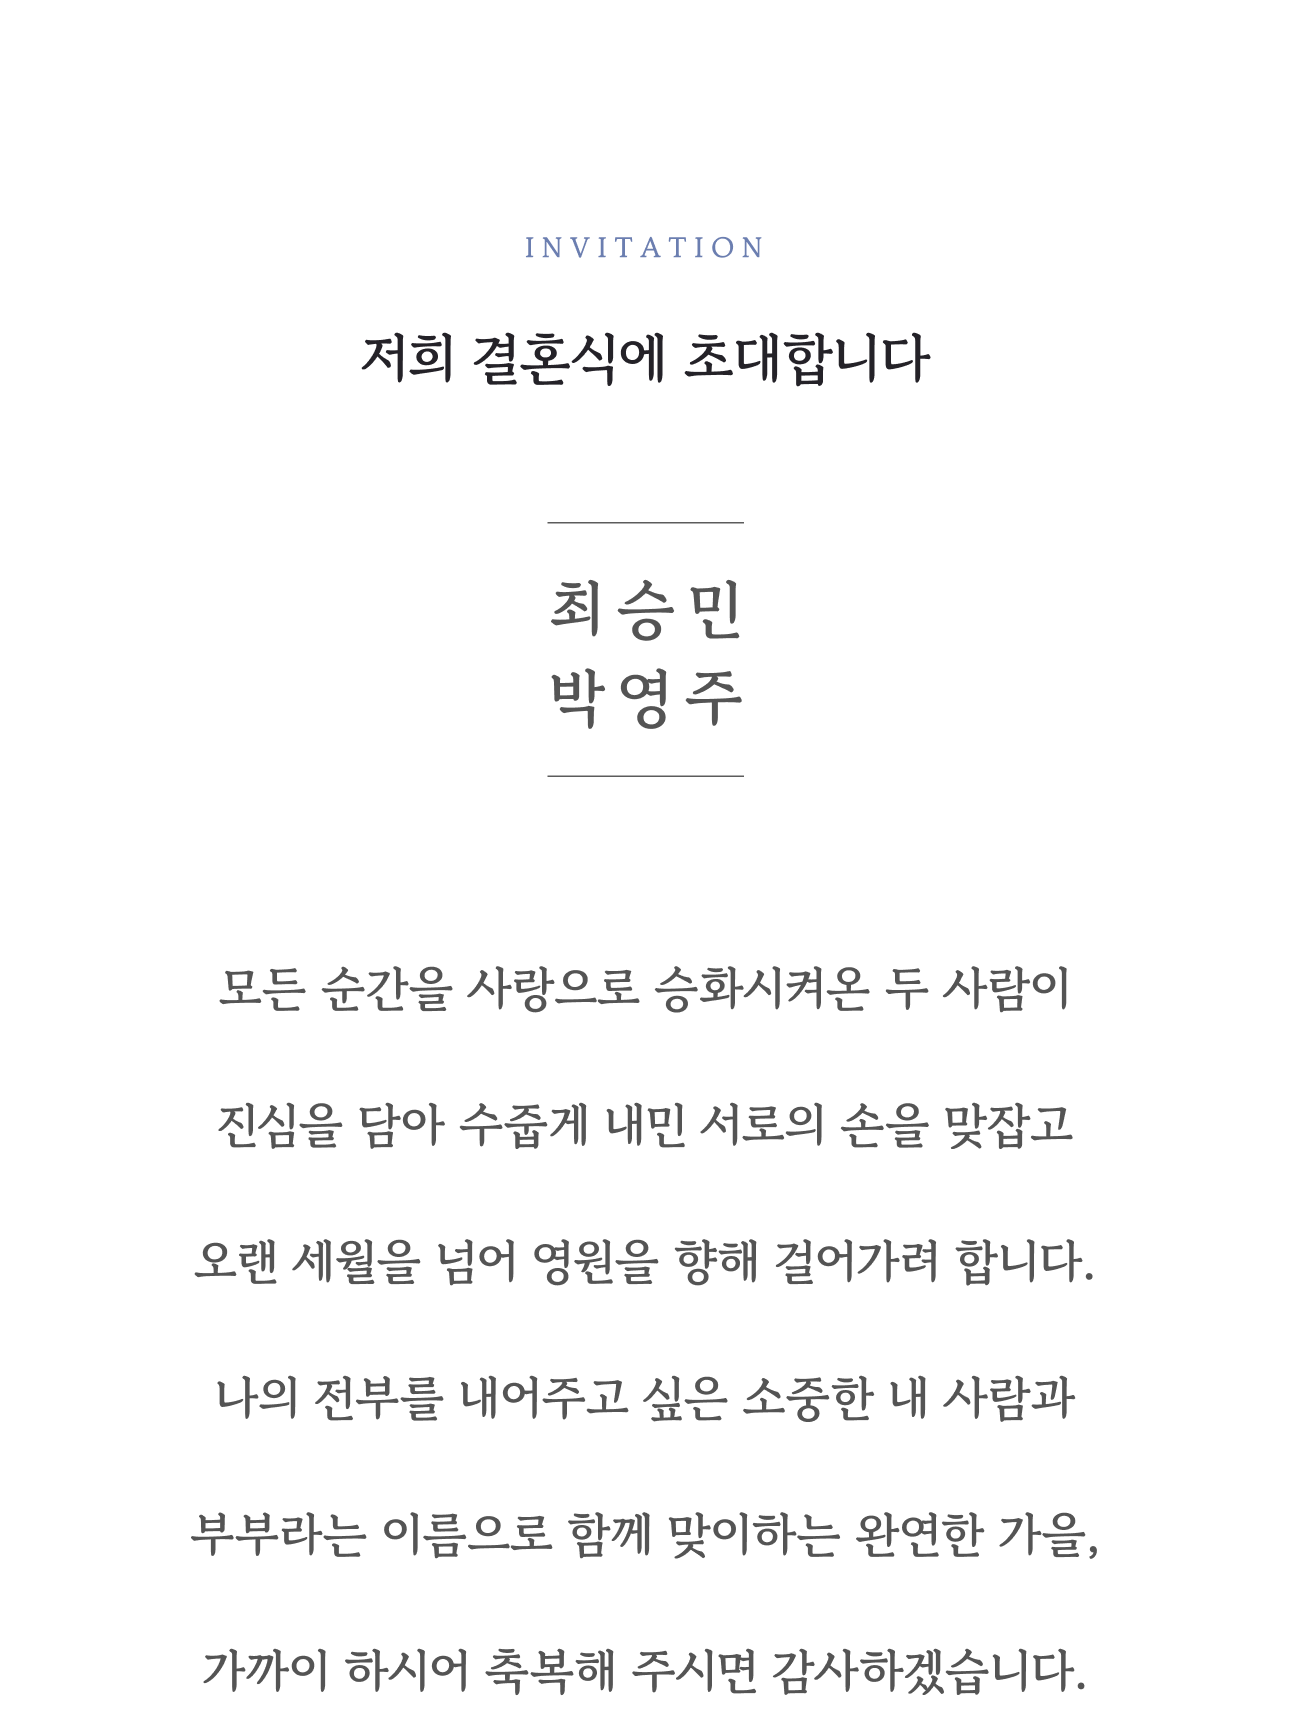
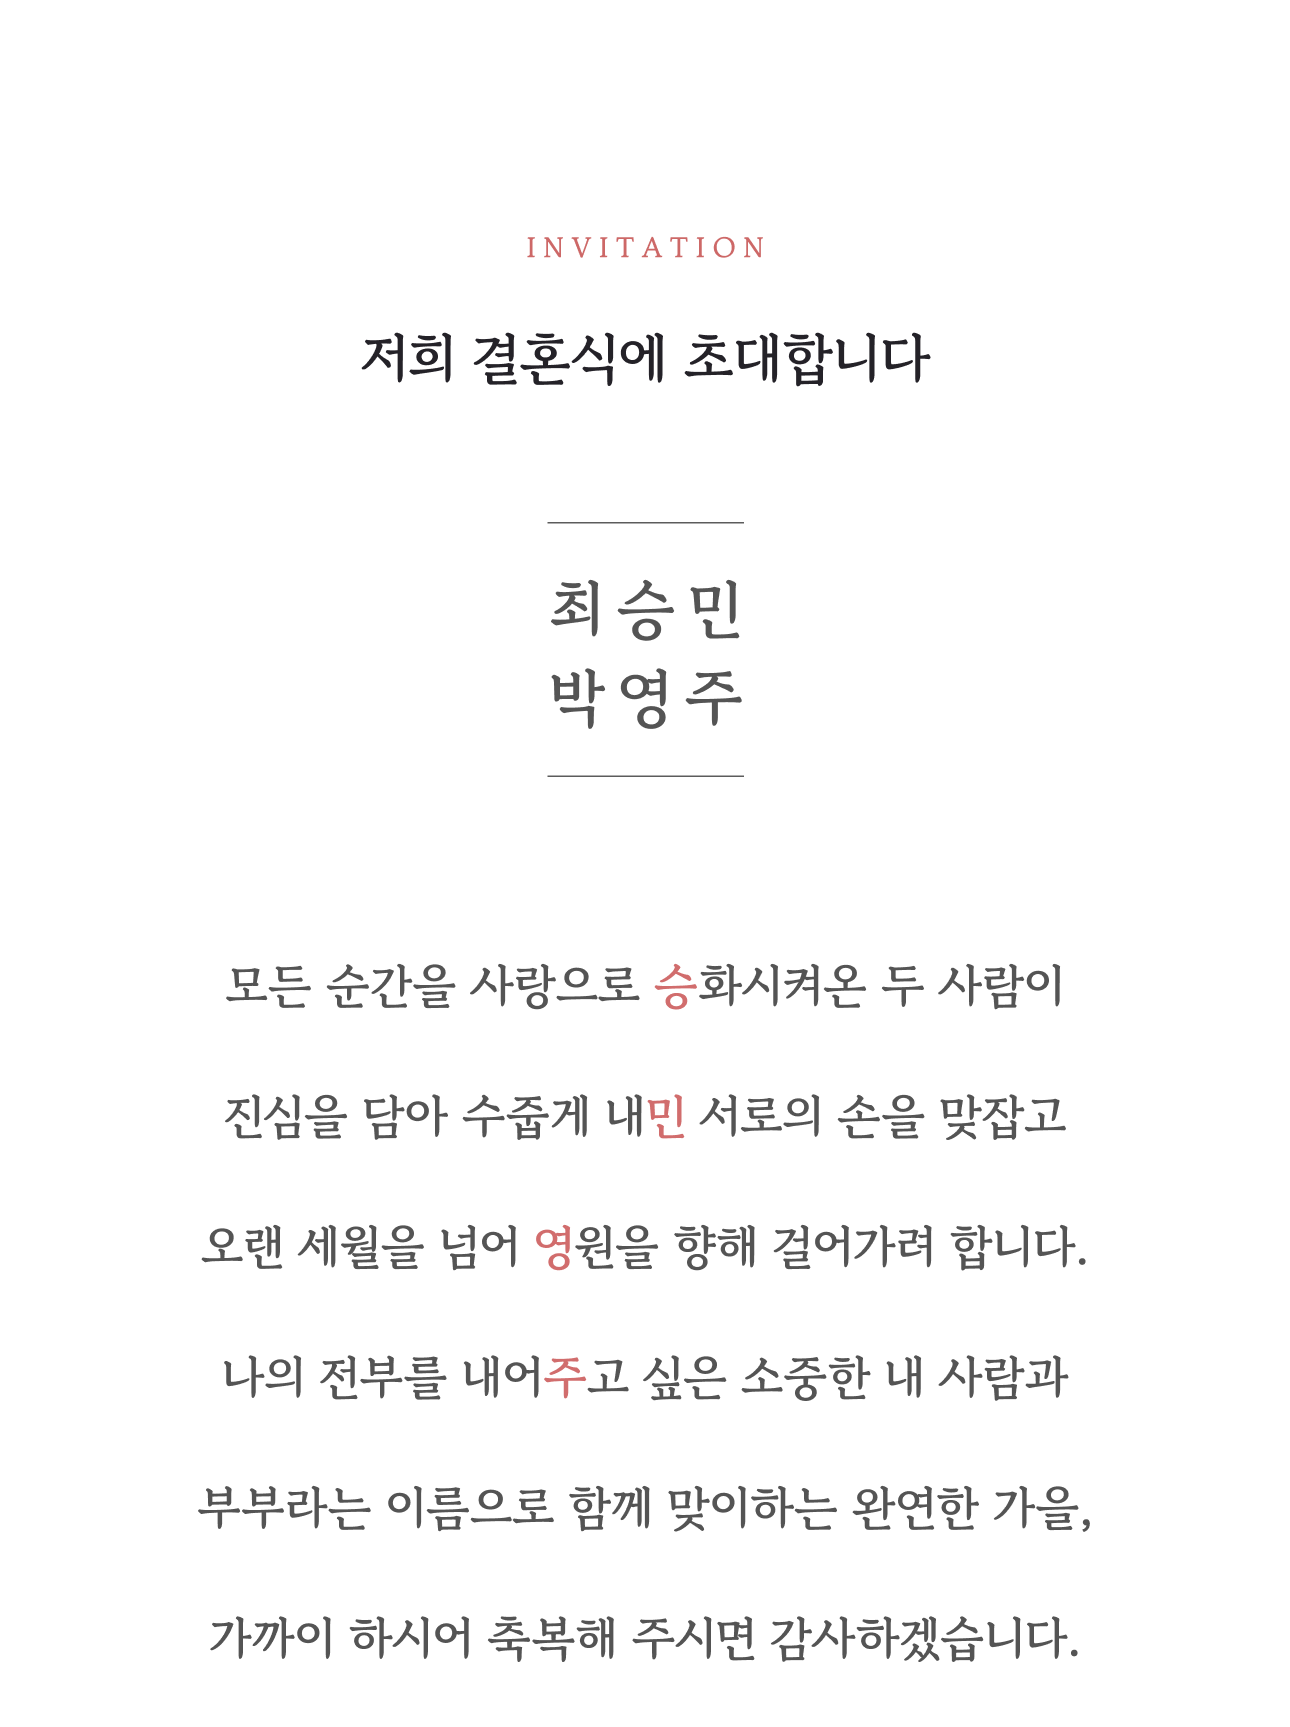
수정

diff --git a/index.html b/index.html
@@ -150,7 +150,7 @@
         </section>
 
         <!-- 갤러리 -->
-        <!-- <section id="gallerySection"> 
+        <section id="gallerySection"> 
           <div id="galleryImages" class="gallery">
             <span style="
             color: #D46363;
@@ -176,7 +176,7 @@
           </div>
           <button id="showMoreBtn">더보기</button>
           <button id="collapseBtn" style="display: none">접기</button>
-        </section> -->
+        </section>
 
         <div class="animate-on-scroll">
           <div>
@@ -198,7 +198,7 @@
                 <th>SEC</th>
               </tr>
               <tr>
-                <td id="daysLeft" style="color: #55719F; font-weight: 600">
+                <td id="daysLeft" style="color: #EE7474; font-weight: 600">
                   119
                 </td>
                 <td>:</td>
@@ -244,7 +244,7 @@
                   ">
                 <p>서울특별시 서초구 반포대로 235(효성빌딩)</p>
                 <p style="font-weight: 600; color: #000000">
-                  아펠가모 반포 LL층 단독홀
+                  아펠가모 반포점 LL층 단독홀
                 </p>
               </div>
               <div class="weddinghall-call-info">
@@ -310,7 +310,7 @@
         </div>
 
         <!-- map 길찾기 -->
-        <div class="animate-on-scroll" id="MapIconDiv" style="background-color: #ffffff;">
+        <div class="animate-on-scroll" id="MapIconDiv" style="background-color: #CD6867;">
           <div>
             <a class="maplink" href="https://kko.to/kguiRX6Pmf">
               <div>
@@ -382,8 +382,8 @@
             <div class="panel">
               <ul>
                 <li><strong>신부 박영주 : </strong>국민은행 788102-01-083962</li>
-                <li><strong>혼주 정성필 : </strong>농협은행 821110-52-066685</li>
-
+                <li><strong>혼주 박형숙 : </strong>농협은행 611041-56-000492</li>
+                <li><strong>혼주 김경미 : </strong>농협은행 352-0391-5748-33</li>
                 <!-- <li>
                   <strong>신부 아버지</strong><br />농협 301819-52-029714
                   (오석기)

diff --git a/style.css b/style.css
@@ -209,7 +209,7 @@ body {
 }
 
 .countdownTimeInfo {
-  color: #6B7EB0;
+  color: #EE7474;
   font-weight: 600;
 }
 
@@ -251,7 +251,7 @@ body {
 
 #locationSection {
   margin-top: 3%;
-  background-color: #EFF2F7;
+  background-color: #F7F3F3;
   height: 265px;
 }
 
@@ -316,7 +316,7 @@ main {
 }
 
 .accordion {
-  background-color: #EFF2F7;
+  background-color: #F7F3F3;
   color: black;
   cursor: pointer;
   padding: 0.8rem;
@@ -396,7 +396,7 @@ main {
 }
 
 #MapIconDiv {
-  color: #000000;
+  color: #ffffff;
   font-size: 13px;
   text-align: center;
   background-color: white;
@@ -408,7 +408,7 @@ main {
 }
 
 #kakaoMapButton {
-  background-color: #ffffff;
+  background-color: #CD6867;
   padding: 10px;
   text-align: center;
   width: auto;
